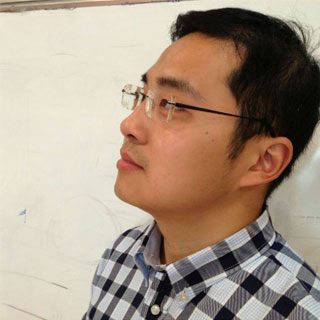
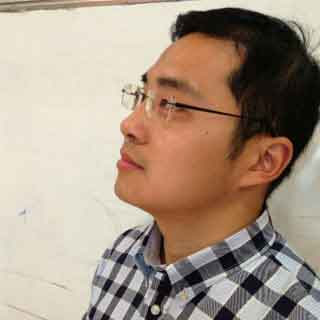
1.13
所有图片大压缩

diff --git a/css/default.css b/css/default.css
@@ -56,12 +56,12 @@ img{width: 50%;}
 
 .hide{ display:none;}
 
-.page{width:100%;height:100%;position:absolute;text-align:center; background-size: cover; background-repeat: no-repeat;background-position:  0 0;}
+.page{width:100%;height:100%;position:absolute;text-align:center; background-size: cover; background-repeat: no-repeat;background-position:  0 0;background-color:#666699;}
 
 .page .wrap{width: 100%;height: 100%;text-align: center;}
 
 .page-1-1{ background-color:#083846;background-image: url(../img/default/1.jpg);}
-/*.page-2-1{ background-color:#9261BF;background-image: url(../img/default/5.jpg); }*/
+.page-2-1{ background-color:#9261BF;background-image: url(../img/default/5.jpg); }
 /* .page-3-1{ background-color:#F3533C;background-image: url(../img/default/3.jpg);}
 .page-4-1{ background-color:#FFBF50;background-image: url(../img/default/13.jpg);}
 .page-5-1{ background-color:#660066;background-image: url(../img/default/92.jpg);}

diff --git a/default.html b/default.html
@@ -31,7 +31,7 @@
 
 			<div class="page page-2-1 hide " bg="background-image: url(img/default/5.jpg)">
 				<div class="wrap">
-					<img data-src="img/default/9.png" src="img/default/loading.gif" class="img_1 abs btm pt-page-flipInRight">
+					<img src="img/default/9.png" class="img_1 abs btm pt-page-flipInRight">
 					
 					<div class="main1 abs full white lh40 top   pt-page-moveFromLeft ">
 						<p class="h2">孤独的寻找着朋友</p>

diff --git a/js/default.js b/js/default.js
@@ -269,7 +269,7 @@ function pageMove(tw){
 	},600);
 
 	/*动态加载背景图片与图片*/
-	var preLoad = ".page-" + (last.row + 1) + "-" + last.col;
+	var preLoad = ".page-" + (last.row + 2) + "-" + last.col;
 	// console.log(preLoad);
 	var bg = $(preLoad).attr("bg");
 	$(preLoad).attr("style",bg);
